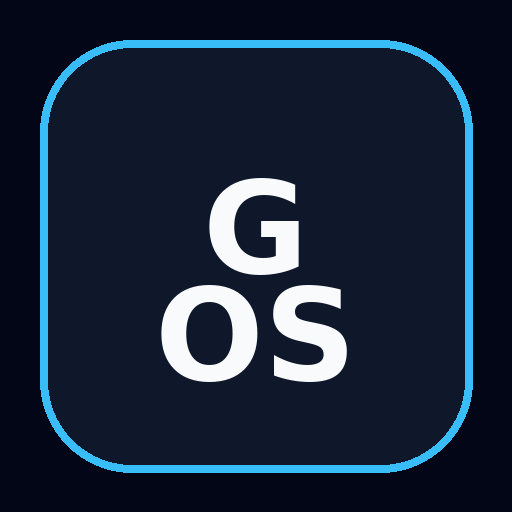
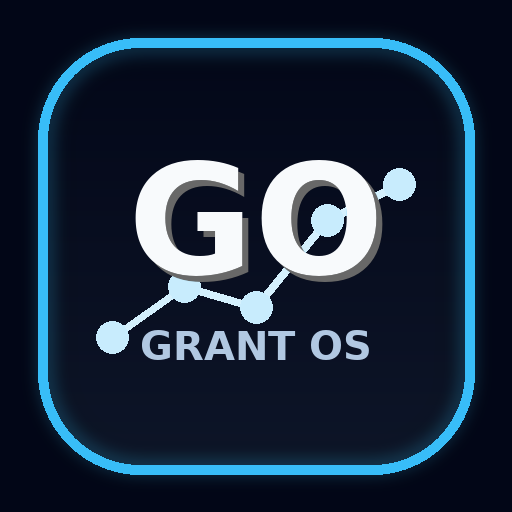
Add files via upload

diff --git a/service-worker.js b/service-worker.js
@@ -1,5 +1,11 @@
-const CACHE_NAME = 'grant-os-v1';
-const FILES = ['./', './index.html', './manifest.json', './icon-192.png', './icon-512.png'];
+const CACHE_NAME = 'grant-os-v20';
+const FILES = [
+  './',
+  './index.html',
+  './manifest.json',
+  './icon-192.png',
+  './icon-512.png'
+];
 
 self.addEventListener('install', event => {
   event.waitUntil(caches.open(CACHE_NAME).then(cache => cache.addAll(FILES)));
@@ -7,9 +13,19 @@ self.addEventListener('install', event => {
 });
 
 self.addEventListener('activate', event => {
-  event.waitUntil(self.clients.claim());
+  event.waitUntil(
+    caches.keys().then(keys => Promise.all(
+      keys.filter(key => key !== CACHE_NAME).map(key => caches.delete(key))
+    )).then(() => self.clients.claim())
+  );
 });
 
 self.addEventListener('fetch', event => {
-  event.respondWith(caches.match(event.request).then(response => response || fetch(event.request)));
+  event.respondWith(
+    fetch(event.request).then(response => {
+      const copy = response.clone();
+      caches.open(CACHE_NAME).then(cache => cache.put(event.request, copy));
+      return response;
+    }).catch(() => caches.match(event.request))
+  );
 });

diff --git a/index.html b/index.html
@@ -3,7 +3,7 @@
 <head>
 <meta charset="UTF-8">
 <meta name="viewport" content="width=device-width, initial-scale=1.0">
-<title>Grant OS v1.3 Timeline Preview 3</title>
+<title>Grant OS v2.0 Brand Refresh</title>
 <style>
 :root{
   --bg:#071021;--panel:#1e2a38;--panel2:#111827;--border:#334155;--text:#f8fafc;
@@ -57,7 +57,7 @@ input,select{width:100%;padding:10px;border-radius:10px;border:1px solid var(--b
 </head>
 <body>
 <header>
-  <h1>Grant OS <span class="pill">v1.3 Timeline Preview 3</span></h1>
+  <h1>Grant OS <span class="pill">v2.0 Brand Refresh</span></h1>
   <div class="sub">Finance • Debt • Holidays • Relocation • Career</div>
 </header>
 <main>